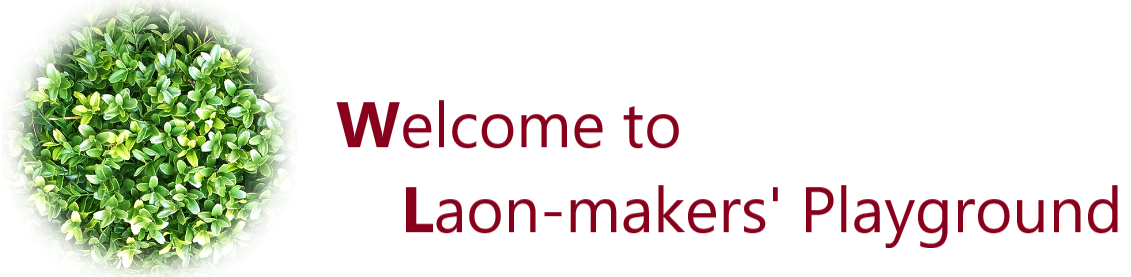
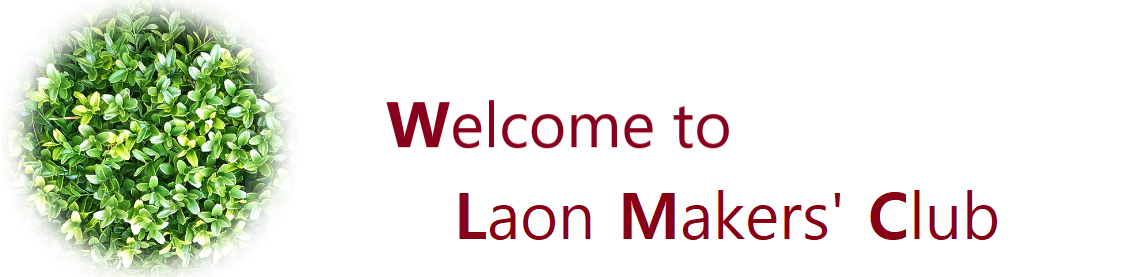
minor changes.

Changed region(s): [[0.3404, 0.6643, 0.9903, 0.8953], [0.2785, 0.3466, 0.6499, 0.5487]]

diff --git a/index.htm b/index.htm
@@ -1,8 +1,8 @@
 <!DOCTYPE html>
 <!--
-    Author: Laon Maker (Laon Creators' Group)
-    Version: 1.2
-    Last update: Jan. 17, 2022
+    Author: G.T. Cho (a Laon maker/artist in Laon Creators)
+    Version: 1.3
+    Last update: Jan. 30, 2022
  -->
 <html lang="en">
 
@@ -10,7 +10,7 @@
   <meta charset="UTF-8">
   <meta http-equiv="X-UA-Compatible" content="IE=edge">
   <meta name="viewport" content="width=device-width, initial-scale=1.0">
-  <title>Laon Makers</title>
+  <title>Laon Makers's Club</title>
 </head>
 
 <body>
@@ -23,7 +23,7 @@
     <b style=' color: blue; font-size: 25px;'>Dashboard</b>
     <hr/>
     <div style='padding-left: 20px;'>
-      <b>This dashboard shows what projects Laon makers are either working on or planning to begin with.</b><br/><br/>
+      <b>This dashboard shows what projects Laon Makers are either working on or planning to begin with.</b><br/><i>The Laon Makers is one club in the Laon Creators.</i><br/><br/>
       <img src='img/dashboard.png' style='width:40%; display: block; margin-left: auto; margin-right: auto;'/>
       <p><i>Click following link to get there:</i></p>
       <a href="dashboard.htm">GoTo Dashboard</a><br /><br/><br/>
@@ -33,8 +33,8 @@
     <b style=' color: blue; font-size: 25px;'>Game Project</b>
     <hr/>
     <div style='padding-left: 20px;'>
-      <b>This Game Project is a tutorial to teach how to make a fun game 'Invading Characters'.
-         It consists of many sub-projects which will guide you to the final game.</b><br/><br/>
+      <b>This Game Project is a tutorial to teach you how to make a fun game 'Invading Characters'.
+         It consists of many sub-projects through which I will walk you for the final game.</b><br/><br/>
          <img src='img/game.png' style="width:30%; display: block; margin-left: auto; margin-right: auto;"/>
       <p><i>Click one of following links to get to projects:</i></p>
       <a href="game/movingChar.htm"><i>GoTo</i> &emsp;<b>Moving Character</b>&nbsp; Project</a><br/><br/>
@@ -47,7 +47,7 @@
           onclick="gotoToStatus('data/s:_data')"><i>Validate</i></button></i>&ensp;
       <a id='toStatus' href="#" hidden>GoTo Front End Developer's Status</a>
       <i id='msg' style='color:red;'>&nbsp;</i><br/><br/>
-      <i style='font-size: small;'>Laon Makers' index revision: 1.2. Last Updated: Jan. 17, 2021</i>
+      <i style='font-size: small;'>Laon Makers' index revision: 1.3. Last Updated: Jan. 30, 2022</i>
     </div>
     <script src='js/index.js'></script>
     <hr />

diff --git a/dashboard.htm b/dashboard.htm
@@ -1,8 +1,8 @@
 <!DOCTYPE html>
 <!--
-    Author: Laon Maker (Laon Creators' Group)
-    Version: 1.0
-    Last update: Dec. 27, 2021
+    Author: G.T. Cho (a Laon maker/artist in Laon Creators)
+    Version: 1.3
+    Last update: Jan. 30, 2022
  -->
 <html>
 <head>
@@ -17,7 +17,6 @@
 
 <body onload='initDashboard()'>
     <h1 style='text-align:center'>Welcome to Laon Makers Project Dashboard !</h1>
-    <br />
     <br />
     <hr />
     <!--div style='width:601px; text-align: center; margin: auto;'-->
@@ -104,7 +103,7 @@
             <br/><hr/>
         </div>
     </div>
-    <div style='text-align: center;'><i style='font-size: small;'>Laon Makers' dashboard revision: 1.2. Last Updated: Jan. 04, 2022</i></div>
+    <div style='text-align: center;'><i style='font-size: small;'>Laon Makers' dashboard revision: 1.3. Last Updated: Jan. 30, 2022</i></div>
     <hr />
 
     <script src="data/projectInfo.js"></script>

diff --git a/css/project.css b/css/project.css
@@ -1,4 +1,4 @@
-/*  Author: Laon Maker (Laon Creators' Group)
+/*  Author: G.T. Cho (a Laon maker/artist in Laon Creators)
     Version: 1.0
     Last update: Dec. 27, 2021
 */
